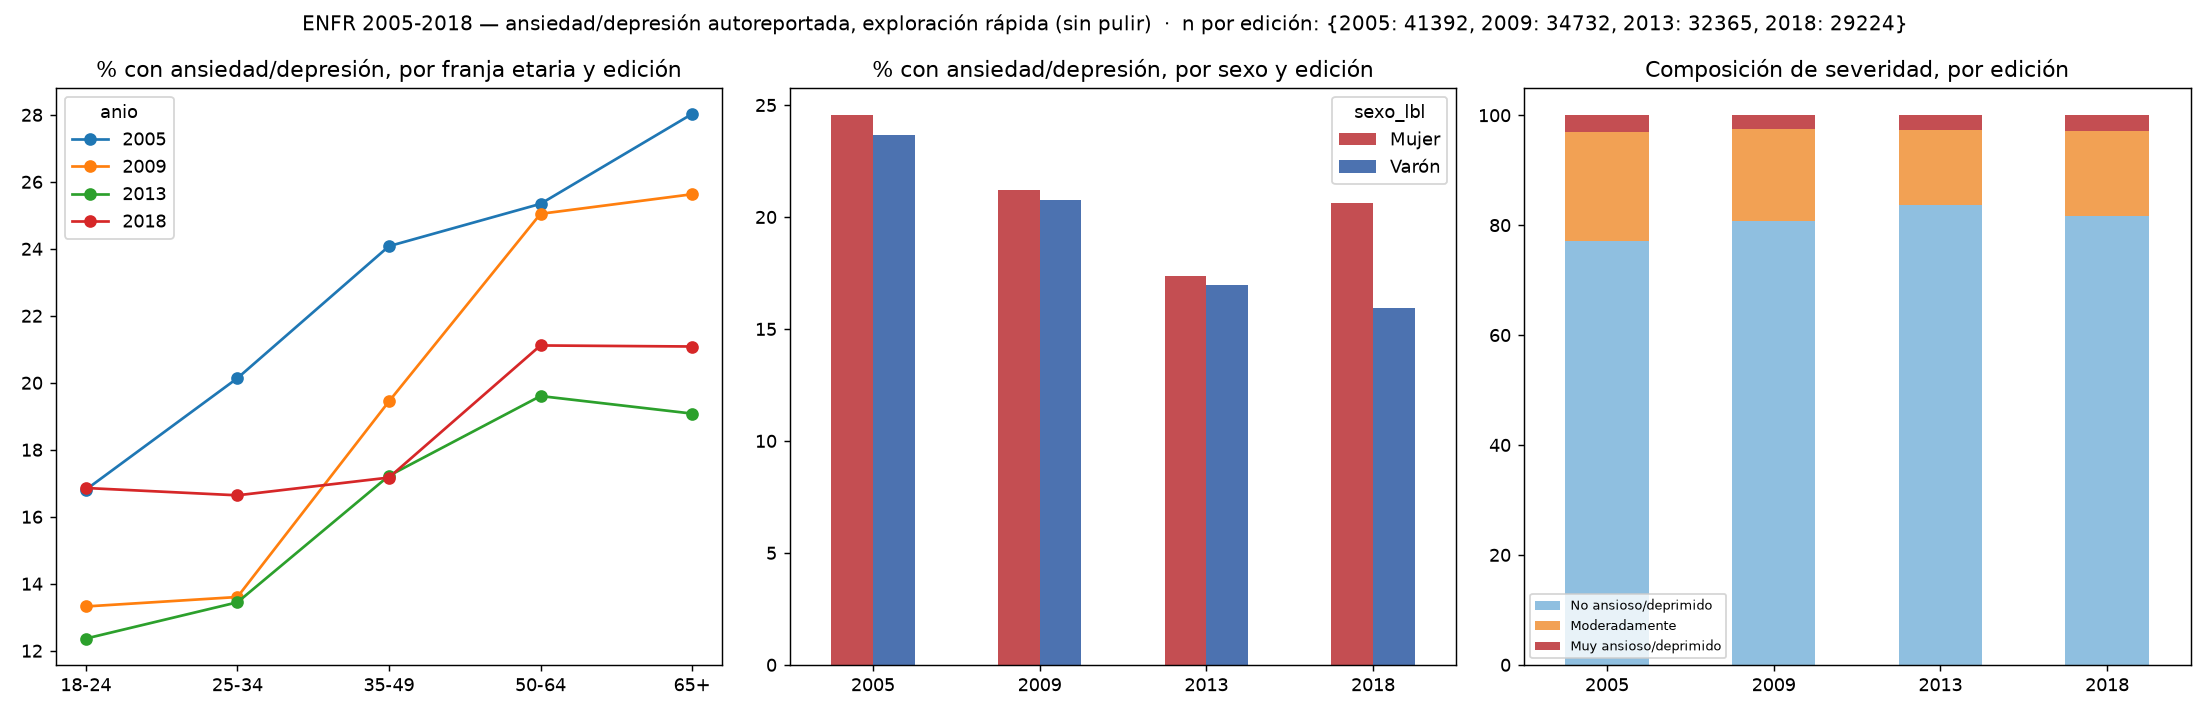
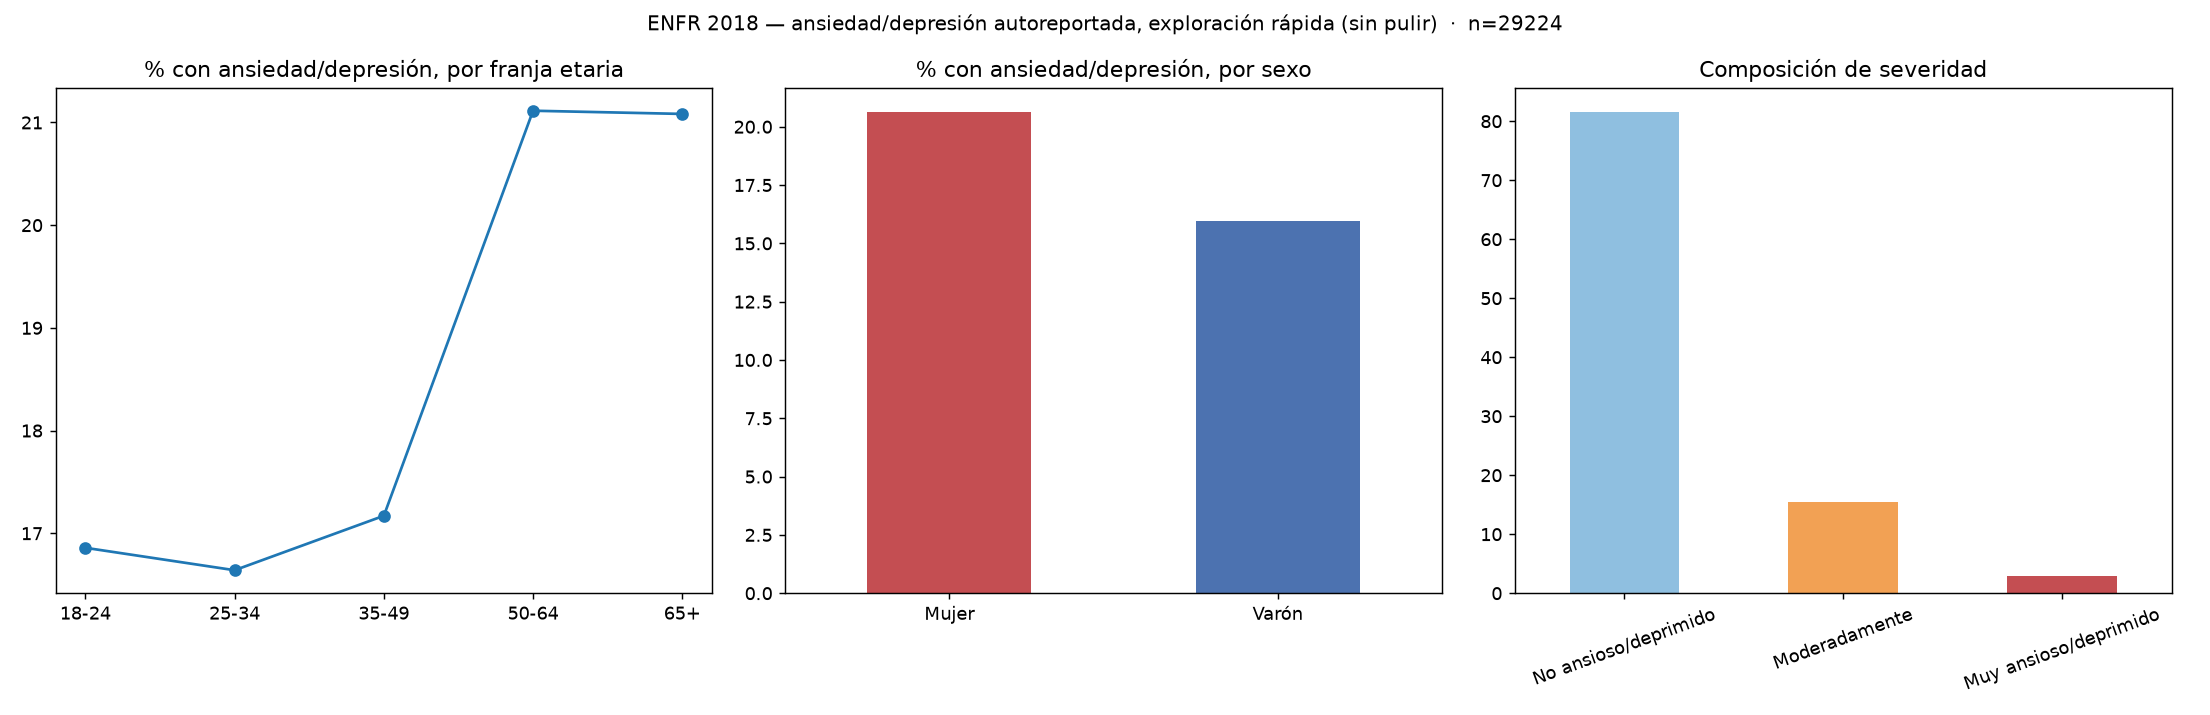
ENFR: sacar las referencias a 2005/2009/2013 de los scripts de exploracion
explore_enfr_viz.py y explore_enfr_viz2.py comparaban las 4 ediciones de la
ENFR, pero esa data ya no esta en el repo (ver commit 6157f59, solo se uso
2018 en la pieza final). Ahora generan los mismos graficos (por franja
etaria, por sexo, composicion de severidad, por quintil de ingreso, por
cobertura/nivel de instruccion, EQ-5D) usando unicamente 2018 -- verificado
corriendo los dos scripts desde cero contra el raw versionado, sin errores.
Los valores por quintil coinciden con los que ya se usan en el grafico de la
pieza (22.3/19.8/19.0/15.2/15.7%).

diff --git a/scripts/explore/explore_enfr_viz2.py b/scripts/explore/explore_enfr_viz2.py
@@ -1,11 +1,15 @@
 """
-ENFR -- segunda tanda de exploración: variables que no habíamos mirado.
-  A) Ansiedad/depresión por quintil de ingreso, 4 ediciones.
-  B) Ansiedad/depresión por cobertura de salud y nivel de instrucción, 2013 y 2018
-     (únicas ediciones con esas variables).
-  C) Las 6 dimensiones del bloque EQ-5D (bisg01-06) por franja etaria, 2018.
+ENFR 2018 -- segunda tanda de exploración: variables que no habíamos mirado.
+  A) Ansiedad/depresión por quintil de ingreso.
+  B) Ansiedad/depresión por cobertura de salud y nivel de instrucción.
+  C) Las 6 dimensiones del bloque EQ-5D (bisg01-06) por franja etaria.
 
-Salida: output/exploracion/enfr/exploracion_enfr_quintil.png, output/exploracion/enfr/exploracion_enfr_socioecon.png,
+Nota: esto comparaba varias ediciones (2005-2018) hasta que se decidio que
+la pieza final solo usa 2018 y se dejo de versionar el raw de las otras --
+ver scripts/clean/clean_enfr.py. Ahora todo es unicamente 2018.
+
+Salida: output/exploracion/enfr/exploracion_enfr_quintil.png,
+        output/exploracion/enfr/exploracion_enfr_socioecon.png,
         output/exploracion/enfr/exploracion_enfr_eq5d.png
 """
 import matplotlib.pyplot as plt
@@ -17,81 +21,62 @@ Path("output/exploracion/enfr").mkdir(parents=True, exist_ok=True)
 EDAD_LABELS = {1: "18-24", 2: "25-34", 3: "35-49", 4: "50-64", 5: "65+"}
 ORDEN_EDAD = ["18-24", "25-34", "35-49", "50-64", "65+"]
 
-EDICIONES = {
-    2005: dict(path="data/clean/enfr/enfr_2005_clean.csv", peso="ponderacion",
-               edad="rangedad", depre="cisg06", quintil="itf_uc_quintiles", offset=True),
-    2009: dict(path="data/clean/enfr/enfr_2009_clean.csv", peso="ponderacion",
-               edad="rangedad", depre="bisg06", quintil="itf_uc_quintiles", offset=True),
-    2013: dict(path="data/clean/enfr/enfr_2013_clean.csv", peso="ponderacion",
-               edad="rango_edad", depre="bisg06", quintil="itf_uc_quintiles", offset=False),
-    2018: dict(path="data/clean/enfr/enfr_2018_clean.csv", peso="wf1p",
-               edad="rango_edad", depre="bisg06", quintil="quintil_uc", offset=False),
-}
+PATH_2018 = "data/clean/enfr/enfr_2018_clean.csv"
+PESO = "wf1p"
 
 
 def pct(g, col="con_ansiedad"):
     return (g[col] * g["peso"]).sum() / g["peso"].sum() * 100
 
 
+df = pd.read_csv(PATH_2018, dtype=str, low_memory=False)
+peso_full = pd.to_numeric(df[PESO], errors="coerce")
+depre_full = pd.to_numeric(df["bisg06"], errors="coerce")
+
 # --- A) Por quintil de ingreso ---
 fig, ax = plt.subplots(figsize=(8, 5.5))
-tabla_q = {}
-for anio, cfg in EDICIONES.items():
-    df = pd.read_csv(cfg["path"], dtype=str, low_memory=False)
-    peso = pd.to_numeric(df[cfg["peso"]], errors="coerce")
-    quintil = pd.to_numeric(df[cfg["quintil"]], errors="coerce")
-    depre = pd.to_numeric(df[cfg["depre"]], errors="coerce")
-    sub = pd.DataFrame({"peso": peso, "quintil": quintil, "depre": depre}).dropna()
-    sub["con_ansiedad"] = (sub["depre"] >= 2).astype(int)
-    tabla_q[anio] = sub.groupby("quintil").apply(pct, include_groups=False)
-tabla_q = pd.DataFrame(tabla_q)
+quintil = pd.to_numeric(df["quintil_uc"], errors="coerce")
+sub = pd.DataFrame({"peso": peso_full, "quintil": quintil, "depre": depre_full}).dropna()
+sub["con_ansiedad"] = (sub["depre"] >= 2).astype(int)
+tabla_q = sub.groupby("quintil").apply(pct, include_groups=False)
 tabla_q.index = [f"Quintil {int(i)}" for i in tabla_q.index]
 tabla_q.plot(ax=ax, marker="o")
-ax.set_title("% con ansiedad/depresión por quintil de ingreso del hogar\n(1 = quintil más pobre, 5 = más rico)")
+ax.set_title("% con ansiedad/depresión por quintil de ingreso del hogar\n(1 = quintil más pobre, 5 = más rico) -- ENFR 2018")
 plt.tight_layout()
 plt.savefig("output/exploracion/enfr/exploracion_enfr_quintil.png", dpi=130)
 print("Guardado output/exploracion/enfr/exploracion_enfr_quintil.png")
 print(tabla_q.round(1))
 print()
 
-# --- B) Cobertura de salud y nivel de instrucción, 2013 y 2018 ---
+# --- B) Cobertura de salud y nivel de instrucción ---
 fig, axes = plt.subplots(1, 2, figsize=(13, 5))
 NIVEL_LABELS = {1: "Sin instrucción", 2: "Primario incompl.", 3: "Primario compl.",
                 4: "Secundario incompl.", 5: "Secundario compl.", 6: "Terciario incompl.",
                 7: "Terciario compl."}
 COBERTURA_LABELS = {1: "Obra social/prepaga", 2: "Solo pública"}
 
-tabla_cob = {}
-tabla_niv = {}
-for anio in (2013, 2018):
-    cfg = EDICIONES[anio]
-    df = pd.read_csv(cfg["path"], dtype=str, low_memory=False)
-    peso = pd.to_numeric(df[cfg["peso"]], errors="coerce")
-    depre = pd.to_numeric(df[cfg["depre"]], errors="coerce")
-    cobertura = pd.to_numeric(df["cobertura_salud"], errors="coerce")
-    nivel = pd.to_numeric(df["nivel_instruccion"], errors="coerce")
-    base = pd.DataFrame({"peso": peso, "depre": depre, "cobertura": cobertura, "nivel": nivel}).dropna(
-        subset=["peso", "depre"])
-    base["con_ansiedad"] = (base["depre"] >= 2).astype(int)
+cobertura = pd.to_numeric(df["cobertura_salud"], errors="coerce")
+nivel = pd.to_numeric(df["nivel_instruccion"], errors="coerce")
+base = pd.DataFrame({"peso": peso_full, "depre": depre_full, "cobertura": cobertura, "nivel": nivel}).dropna(
+    subset=["peso", "depre"])
+base["con_ansiedad"] = (base["depre"] >= 2).astype(int)
 
-    sub_c = base[base["cobertura"].isin([1, 2])]
-    tabla_cob[anio] = sub_c.groupby("cobertura").apply(pct, include_groups=False).rename(index=COBERTURA_LABELS)
+sub_c = base[base["cobertura"].isin([1, 2])]
+tabla_cob = sub_c.groupby("cobertura").apply(pct, include_groups=False).rename(index=COBERTURA_LABELS)
 
-    sub_n = base[base["nivel"].isin(range(1, 8))]
-    tabla_niv[anio] = sub_n.groupby("nivel").apply(pct, include_groups=False)
-
-tabla_cob = pd.DataFrame(tabla_cob)
-tabla_niv = pd.DataFrame(tabla_niv)
+sub_n = base[base["nivel"].isin(range(1, 8))]
+tabla_niv = sub_n.groupby("nivel").apply(pct, include_groups=False)
 tabla_niv.index = [NIVEL_LABELS.get(int(i), i) for i in tabla_niv.index]
 
-tabla_cob.plot(kind="bar", ax=axes[0], color=["#4c72b0", "#c44e52"])
+tabla_cob.plot(kind="bar", ax=axes[0], color="#4c72b0")
 axes[0].set_title("% con ansiedad/depresión, por cobertura de salud")
 axes[0].tick_params(axis="x", rotation=20)
 
-tabla_niv.loc[list(NIVEL_LABELS.values())].plot(kind="barh", ax=axes[1], color=["#4c72b0", "#c44e52"])
+tabla_niv.loc[list(NIVEL_LABELS.values())].plot(kind="barh", ax=axes[1], color="#4c72b0")
 axes[1].set_title("% con ansiedad/depresión, por nivel de instrucción")
 axes[1].invert_yaxis()
 
+fig.suptitle("ENFR 2018", fontsize=10)
 plt.tight_layout()
 plt.savefig("output/exploracion/enfr/exploracion_enfr_socioecon.png", dpi=130)
 print("Guardado output/exploracion/enfr/exploracion_enfr_socioecon.png")
@@ -99,7 +84,7 @@ print(tabla_cob.round(1))
 print(tabla_niv.round(1))
 print()
 
-# --- C) Las 6 dimensiones del EQ-5D por franja etaria, 2018 ---
+# --- C) Las 6 dimensiones del EQ-5D por franja etaria ---
 DIMENSIONES = {
     "bisg01": "Salud general (mala/regular)",
     "bisg02": "Movilidad",
@@ -108,16 +93,14 @@ DIMENSIONES = {
     "bisg05": "Dolor/malestar",
     "bisg06": "Ansiedad/depresión",
 }
-df18 = pd.read_csv(EDICIONES[2018]["path"], dtype=str, low_memory=False)
-peso = pd.to_numeric(df18[EDICIONES[2018]["peso"]], errors="coerce")
-edad = pd.to_numeric(df18[EDICIONES[2018]["edad"]], errors="coerce").map(EDAD_LABELS)
+edad = pd.to_numeric(df["rango_edad"], errors="coerce").map(EDAD_LABELS)
 
 fig, ax = plt.subplots(figsize=(9, 5.5))
 for var, nombre in DIMENSIONES.items():
-    val = pd.to_numeric(df18[var], errors="coerce")
+    val = pd.to_numeric(df[var], errors="coerce")
     # bisg01 (salud general) es escala 1-5 donde >=4 es mala/regular; el resto es 1-3 donde >=2 es "algún problema"
     problema = (val >= 4).astype(int) if var == "bisg01" else (val >= 2).astype(int)
-    sub = pd.DataFrame({"peso": peso, "edad": edad, "problema": problema}).dropna()
+    sub = pd.DataFrame({"peso": peso_full, "edad": edad, "problema": problema}).dropna()
     serie = sub.groupby("edad").apply(lambda g: (g["problema"] * g["peso"]).sum() / g["peso"].sum() * 100,
                                        include_groups=False).reindex(ORDEN_EDAD)
     ax.plot(ORDEN_EDAD, serie.values, marker="o", label=nombre)

diff --git a/scripts/explore/explore_enfr_viz.py b/scripts/explore/explore_enfr_viz.py
@@ -1,7 +1,10 @@
 """
-Visualizaciones EXPLORATORIAS de la ENFR (data/clean/enfr/), sin pulir.
-Ponderador correcto por edición: PONDERACION (2005/2009/2013), wf1p (2018 -- NO wf3p,
-ver data/clean/README.md).
+Visualizaciones EXPLORATORIAS de la ENFR 2018 (data/clean/enfr/), sin pulir.
+Ponderador correcto: wf1p (NO wf3p, ver data/clean/README.md).
+
+Nota: esto comparaba 4 ediciones (2005/2009/2013/2018) hasta que se decidio
+que la pieza final solo usa 2018 y se dejo de versionar el raw de las otras
+3 -- ver scripts/clean/clean_enfr.py. Ahora muestra unicamente 2018.
 
 Salida: output/exploracion/enfr/exploracion_enfr.png
 """
@@ -15,37 +18,18 @@ EDAD_LABELS = {1: "18-24", 2: "25-34", 3: "35-49", 4: "50-64", 5: "65+"}
 SEXO_LABELS = {1: "Varón", 2: "Mujer"}
 ORDEN_EDAD = ["18-24", "25-34", "35-49", "50-64", "65+"]
 
-EDICIONES = {
-    2005: dict(path="data/clean/enfr/enfr_2005_clean.csv", peso="ponderacion",
-               sexo="chch03", edad="rangedad", depre="cisg06", offset=True),
-    2009: dict(path="data/clean/enfr/enfr_2009_clean.csv", peso="ponderacion",
-               sexo="bhch03", edad="rangedad", depre="bisg06", offset=True),
-    2013: dict(path="data/clean/enfr/enfr_2013_clean.csv", peso="ponderacion",
-               sexo="bhch03", edad="rango_edad", depre="bisg06", offset=False),
-    2018: dict(path="data/clean/enfr/enfr_2018_clean.csv", peso="wf1p",
-               sexo="bhch03", edad="rango_edad", depre="bisg06", offset=False),
-}
+df = pd.read_csv("data/clean/enfr/enfr_2018_clean.csv", dtype=str, low_memory=False)
+peso = pd.to_numeric(df["wf1p"], errors="coerce")
+edad = pd.to_numeric(df["rango_edad"], errors="coerce")
+sexo = pd.to_numeric(df["bhch03"], errors="coerce")
+depre = pd.to_numeric(df["bisg06"], errors="coerce")
+sub = pd.DataFrame({"peso": peso, "edad": edad, "sexo": sexo, "depre": depre}).dropna(
+    subset=["peso", "edad", "depre"])
+sub["franja"] = sub["edad"].map(EDAD_LABELS)
+sub["sexo_lbl"] = sub["sexo"].map(SEXO_LABELS)
+sub["con_ansiedad"] = (sub["depre"] >= 2).astype(int)
 
-registros = []
-n_por_anio = {}
-for anio, cfg in EDICIONES.items():
-    df = pd.read_csv(cfg["path"], dtype=str, low_memory=False)
-    peso = pd.to_numeric(df[cfg["peso"]], errors="coerce")
-    edad = pd.to_numeric(df[cfg["edad"]], errors="coerce")
-    sexo = pd.to_numeric(df[cfg["sexo"]], errors="coerce")
-    depre = pd.to_numeric(df[cfg["depre"]], errors="coerce")
-    sub = pd.DataFrame({"peso": peso, "edad": edad, "sexo": sexo, "depre": depre}).dropna(
-        subset=["peso", "edad", "depre"])
-    if cfg["offset"]:
-        sub["edad"] = sub["edad"] - 1
-    sub["franja"] = sub["edad"].map(EDAD_LABELS)
-    sub["sexo_lbl"] = sub["sexo"].map(SEXO_LABELS)
-    sub["con_ansiedad"] = (sub["depre"] >= 2).astype(int)
-    sub["anio"] = anio
-    registros.append(sub)
-    n_por_anio[anio] = len(sub)
-
-todo = pd.concat(registros, ignore_index=True)
+n = len(sub)
 
 
 def pct(g, col="con_ansiedad"):
@@ -53,40 +37,38 @@ def pct(g, col="con_ansiedad"):
 
 
 fig, axes = plt.subplots(1, 3, figsize=(17, 5.5))
-fig.suptitle("ENFR 2005-2018 — ansiedad/depresión autoreportada, exploración rápida (sin pulir)"
-             f"  ·  n por edición: {n_por_anio}", fontsize=11)
+fig.suptitle(f"ENFR 2018 — ansiedad/depresión autoreportada, exploración rápida (sin pulir)  ·  n={n}",
+             fontsize=11)
 
-# 1) % con ansiedad/depresión por franja etaria, una línea por edición
+# 1) % con ansiedad/depresión por franja etaria
 ax = axes[0]
-tabla = todo.dropna(subset=["franja"]).groupby(["anio", "franja"]).apply(pct, include_groups=False).unstack("anio")
-tabla = tabla.reindex(ORDEN_EDAD)
+tabla = sub.dropna(subset=["franja"]).groupby("franja").apply(pct, include_groups=False).reindex(ORDEN_EDAD)
 tabla.plot(ax=ax, marker="o")
-ax.set_title("% con ansiedad/depresión, por franja etaria y edición")
+ax.set_title("% con ansiedad/depresión, por franja etaria")
 ax.set_xlabel("")
 ax.set_xticks(range(len(ORDEN_EDAD)))
 ax.set_xticklabels(ORDEN_EDAD, rotation=0)
 
-# 2) % por sexo, por edición
+# 2) % por sexo
 ax = axes[1]
-tabla_sexo = todo.dropna(subset=["sexo_lbl"]).groupby(["anio", "sexo_lbl"]).apply(pct, include_groups=False).unstack("sexo_lbl")
+tabla_sexo = sub.dropna(subset=["sexo_lbl"]).groupby("sexo_lbl").apply(pct, include_groups=False)
 tabla_sexo.plot(kind="bar", ax=ax, color=["#c44e52", "#4c72b0"])
-ax.set_title("% con ansiedad/depresión, por sexo y edición")
+ax.set_title("% con ansiedad/depresión, por sexo")
 ax.set_xlabel("")
 ax.tick_params(axis="x", rotation=0)
 
-# 3) Composición de severidad de respuesta (1/2/3) por edición
+# 3) Composición de severidad de respuesta (1/2/3)
 ax = axes[2]
 DEPRE_LABELS = {1: "No ansioso/deprimido", 2: "Moderadamente", 3: "Muy ansioso/deprimido"}
-comp = todo.copy()
+comp = sub.copy()
 comp["depre_lbl"] = comp["depre"].map(DEPRE_LABELS)
-tabla_comp = comp.groupby(["anio", "depre_lbl"])["peso"].sum().unstack("depre_lbl")
-tabla_comp = tabla_comp.div(tabla_comp.sum(axis=1), axis=0) * 100
-tabla_comp[["No ansioso/deprimido", "Moderadamente", "Muy ansioso/deprimido"]].plot(
-    kind="bar", stacked=True, ax=ax, color=["#8fbfe0", "#f2a154", "#c44e52"])
-ax.set_title("Composición de severidad, por edición")
+tabla_comp = comp.groupby("depre_lbl")["peso"].sum()
+tabla_comp = (tabla_comp / tabla_comp.sum() * 100).reindex(
+    ["No ansioso/deprimido", "Moderadamente", "Muy ansioso/deprimido"])
+tabla_comp.plot(kind="bar", ax=ax, color=["#8fbfe0", "#f2a154", "#c44e52"])
+ax.set_title("Composición de severidad")
 ax.set_xlabel("")
-ax.tick_params(axis="x", rotation=0)
-ax.legend(fontsize=7)
+ax.tick_params(axis="x", rotation=20)
 
 plt.tight_layout()
 plt.savefig("output/exploracion/enfr/exploracion_enfr.png", dpi=130)
